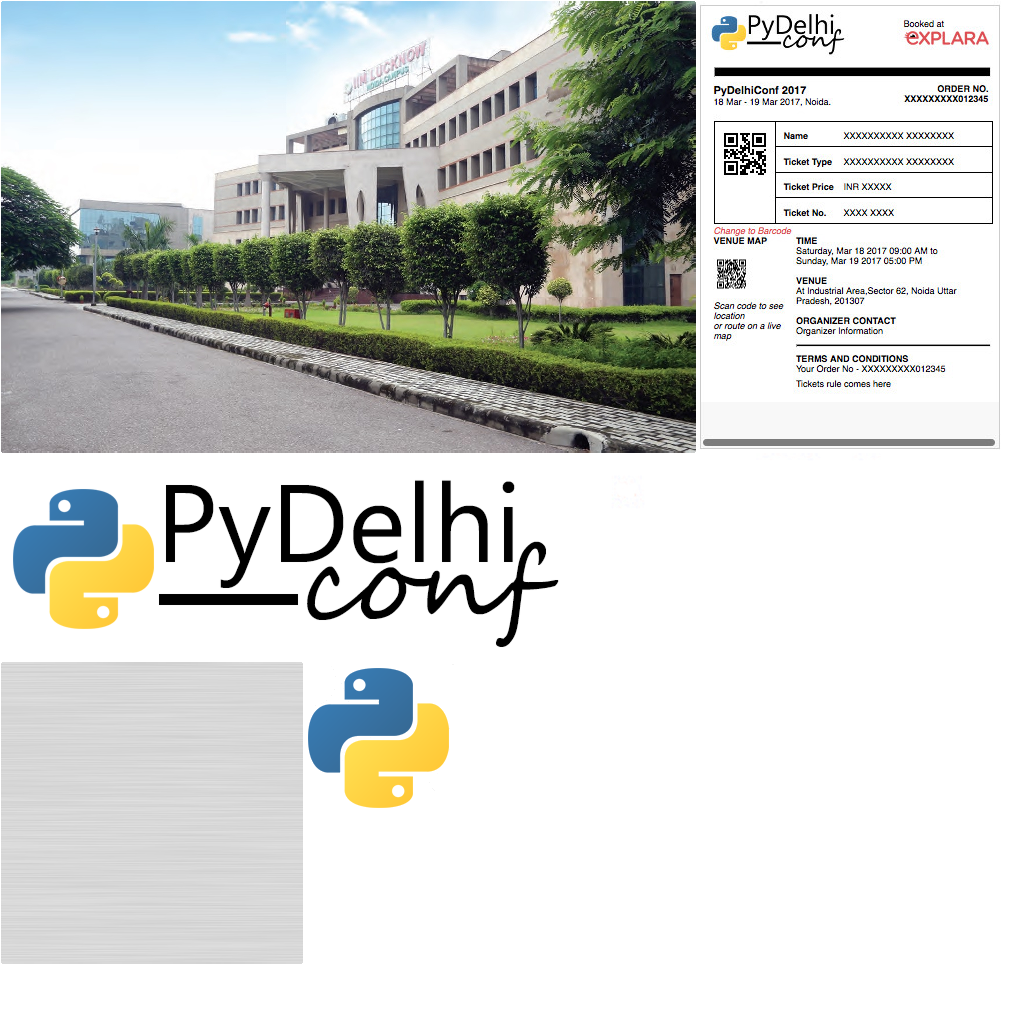
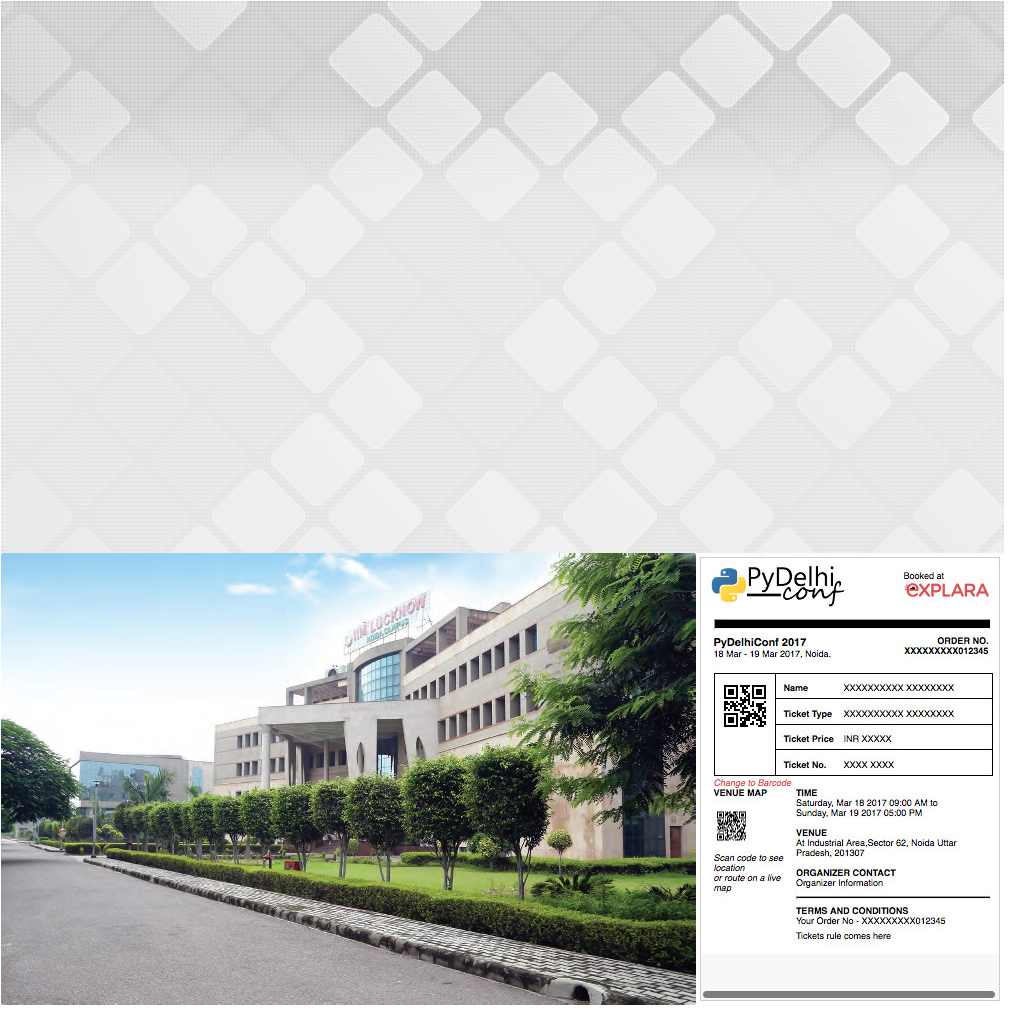
change colors and bg to match website

diff --git a/pydelhiconf/uix/screens/screenschedule.py b/pydelhiconf/uix/screens/screenschedule.py
@@ -17,12 +17,12 @@ class ScreenSchedule(Screen):
 <Topic@Label>
     canvas.before:
         Color
-            rgba: 45/256, 191/256., 212/256., 1
+            rgba: app.base_inactive_light
         Rectangle
             size: dp(300), self.height
             pos: self.right - dp(300), self.y
         Color
-            rgba: 45/256, 191/256., 212/256., .5
+            rgba: app.base_inactive_light[:3]+[.5]
         Rectangle
             size: dp(300), self.height
             pos: self.right - dp(310), self.y - dp(10)
@@ -43,12 +43,12 @@ class ScreenSchedule(Screen):
     back_color: app.base_active_color
     canvas.before:
         Color
-            rgba: root.back_color if root.back_color else (1, 1, 1, 1)
+            rgba: root.back_color or (1, 1, 1, 1)
         Rectangle
             size: dp(270), dp(36)
             pos: self.x, self.top - dp(36)
         Color
-            rgba: (list(root.back_color[:3]) + [.3]) if root.back_color else (1, 1, 1, 1)
+            rgba: (list(root.back_color[:3])+[.3]) if root.back_color else (1, 1, 1, 1)
         Rectangle
             size: dp(270), dp(36)
             pos: self.x + dp(7), self.top - (dp(36) + dp(7))
@@ -124,6 +124,8 @@ class ScreenSchedule(Screen):
                                 height: dp(900)
                             Button
             AccordionItem
-                back_color: 45/256, 191/256., 212/256., 1
+                back_color: app.base_inactive_light
                 title: 'Sunday March 19, 2017'
  ''')
+    # TODO take schedule from json and display data based on it
+    # what's present above is only a simple test

diff --git a/pydelhiconf/main.py b/pydelhiconf/main.py
@@ -37,7 +37,7 @@ class PyConApp(App):
     - 
     '''
 
-    base_active_color = ListProperty([85./255, 172./255, 238./255, 1])
+    base_active_color = ListProperty([90./255, 50./255, 52./255, 1])
     '''This is the base Color in the app that is used to denote the currently
     active widgets, active buttons and highlited areas. Format
     is RGBA.
@@ -47,7 +47,7 @@ class PyConApp(App):
     defaults to Red(217, 52, 47)
     '''
 
-    base_inactive_color = ListProperty([61/256., 61/256., 61/256., 1])
+    base_inactive_color = ListProperty([141/256., 40/256., 40/256., 1])
     '''This is the base Color in the app that is used to denote the currently
     inactive items, inactive buttons and highlited areas. Format
     is RGBA.
@@ -57,7 +57,7 @@ class PyConApp(App):
     defaults to Red(217, 52, 47)
     '''
 
-    base_inactive_light = ListProperty([225/256., 224/256., 224/256., 1])
+    base_inactive_light = ListProperty([186/256., 106/256., 54./255, 1])
     '''This is the base Color in the app that is used to denote the currently
     active color used to display active buttons and highlited areas. Format
     is RGBA.
@@ -67,7 +67,7 @@ class PyConApp(App):
     defaults to Red(225p, 224, 224)
     '''
 
-    base_color = ListProperty([250/256., 250/256., 250/256., 1])
+    base_color = ListProperty([163/256., 112/256., 80/256., 1])
     '''This is the base Color in the app that is used to for bakgrounds.
 
     :attr:`base_color` is a :class:`~kivy.properties.ListProperty`

diff --git a/pydelhiconf/uix/screens/navigationscreen.py b/pydelhiconf/uix/screens/navigationscreen.py
@@ -60,6 +60,8 @@ class NavigationScreen(Screen):
             MenuButton
                 text: 'DevSprints'
             MenuButton
+                text: 'Feedback'
+            MenuButton
                 text: 'Ticket'
                 on_release: app.load_screen('ScreenTicket', manager=app.navigation_manager)
             MenuButton
@@ -83,7 +85,6 @@ class NavigationScreen(Screen):
 <RightPanel@BoxLayout+Background>
     source: 'atlas://data/default/bg'
     orientation: "vertical"
-    color: (.2, .2, .2, 1) if nav_sm.current in ('ScreenPong', 'ScreenQuiz') else (1, 1, 1, 1)
     TopBar
     ScreenManager
         on_parent: app.navigation_manager = nav_sm

diff --git a/pydelhiconf/uix/screens/screenvenue.py b/pydelhiconf/uix/screens/screenvenue.py
@@ -21,13 +21,15 @@ class ScreenVenue(Screen):
             source: 'atlas://data/default/venue'
             allow_stretch: True
             keep_ratio: True
-        MapView:
-            zoom: 11
-            lat: 28.6235184
-            lon: 77.3551479 
-            MapMarker
+        Splitter
+            sizable_from: 'top'
+            MapView:
+                zoom: 11
                 lat: 28.6235184
-                lon: 77.3551479
+                lon: 77.3551479 
+                MapMarker
+                    lat: 28.6235184
+                    lon: 77.3551479
         BoxLayout:
             size_hint: 1, None
             height: dp(45)

diff --git a/pydelhiconf/uix/pydelhiconf.py b/pydelhiconf/uix/pydelhiconf.py
@@ -9,14 +9,16 @@ class PyDelhiConfScreenManager(ScreenManager):
 #:import WipeTransition kivy.uix.screenmanager.WipeTransition
 
 <ImgBut@ButtonBehavior+Image>
+    color: 1, 1, 1, 1
+    mipmap: True
     opacity: .5 if self.state =='down' else 1
 
 <Background@Widget>
 	source: ''
-	color: 1, 1, 1, 1
+	color: app.base_color
 	canvas.before:
     	Color:
-    		rgba: root.color
+    		rgba: root.color if root.color else (1, 1, 1, 1)
     	Rectangle:
     		source: root.source
     		size: self.size

diff --git a/pydelhiconf/uix/screens/startupscreen.py b/pydelhiconf/uix/screens/startupscreen.py
@@ -18,6 +18,7 @@ class StartupScreen(Screen):
         from kivy.clock import Clock
         Clock.schedule_once(lambda dt: app.load_screen('NavigationScreen'), 2)
     Image:
+        color: app.base_color
         source: 'atlas://data/default/bg'
         allow_stretch: True
         keep_ratio: False
